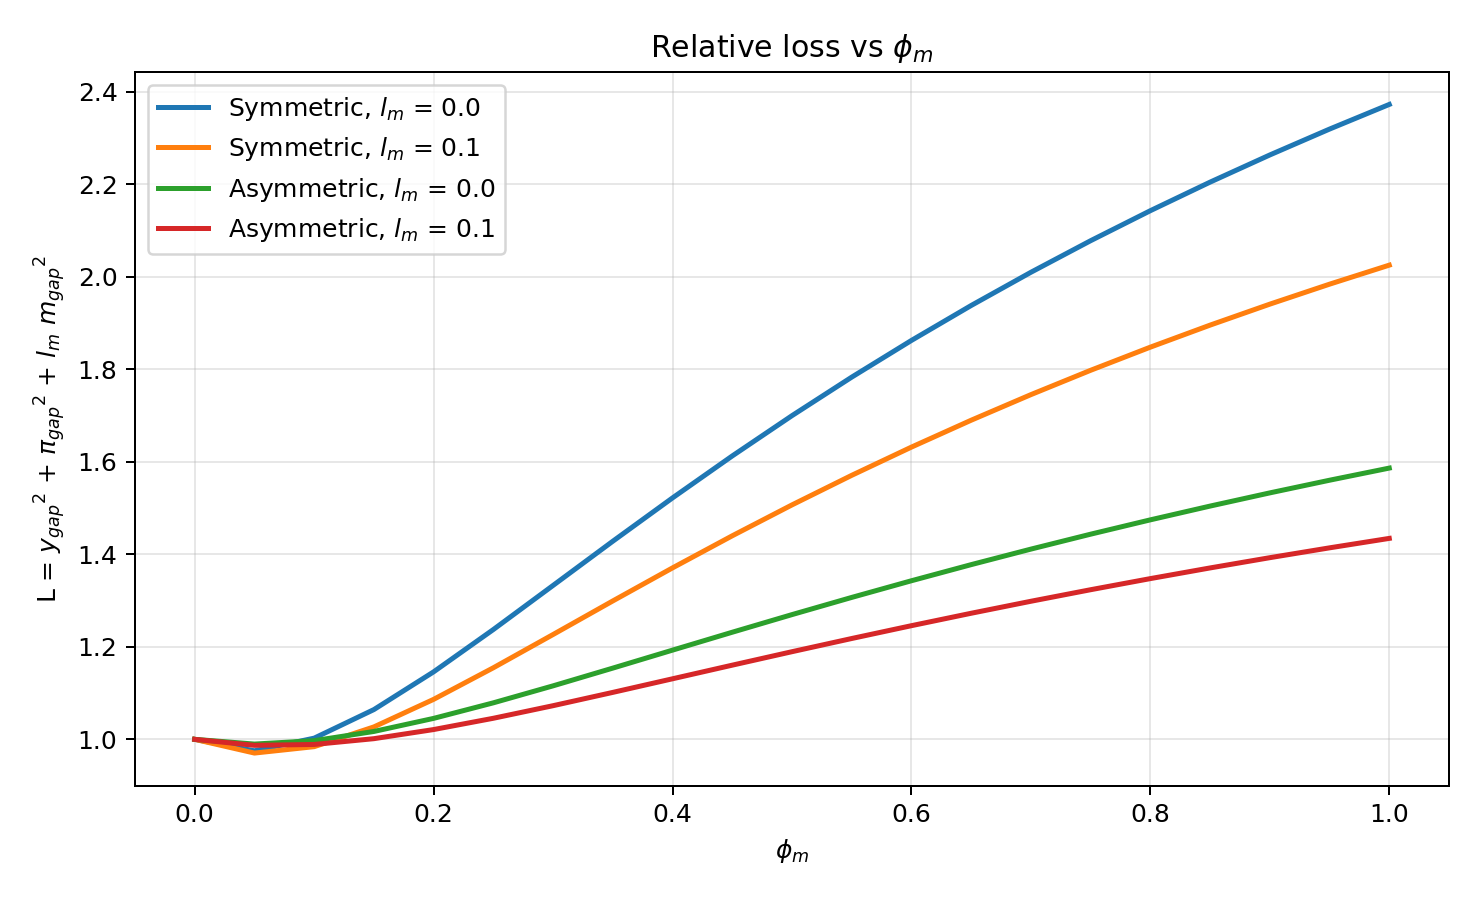
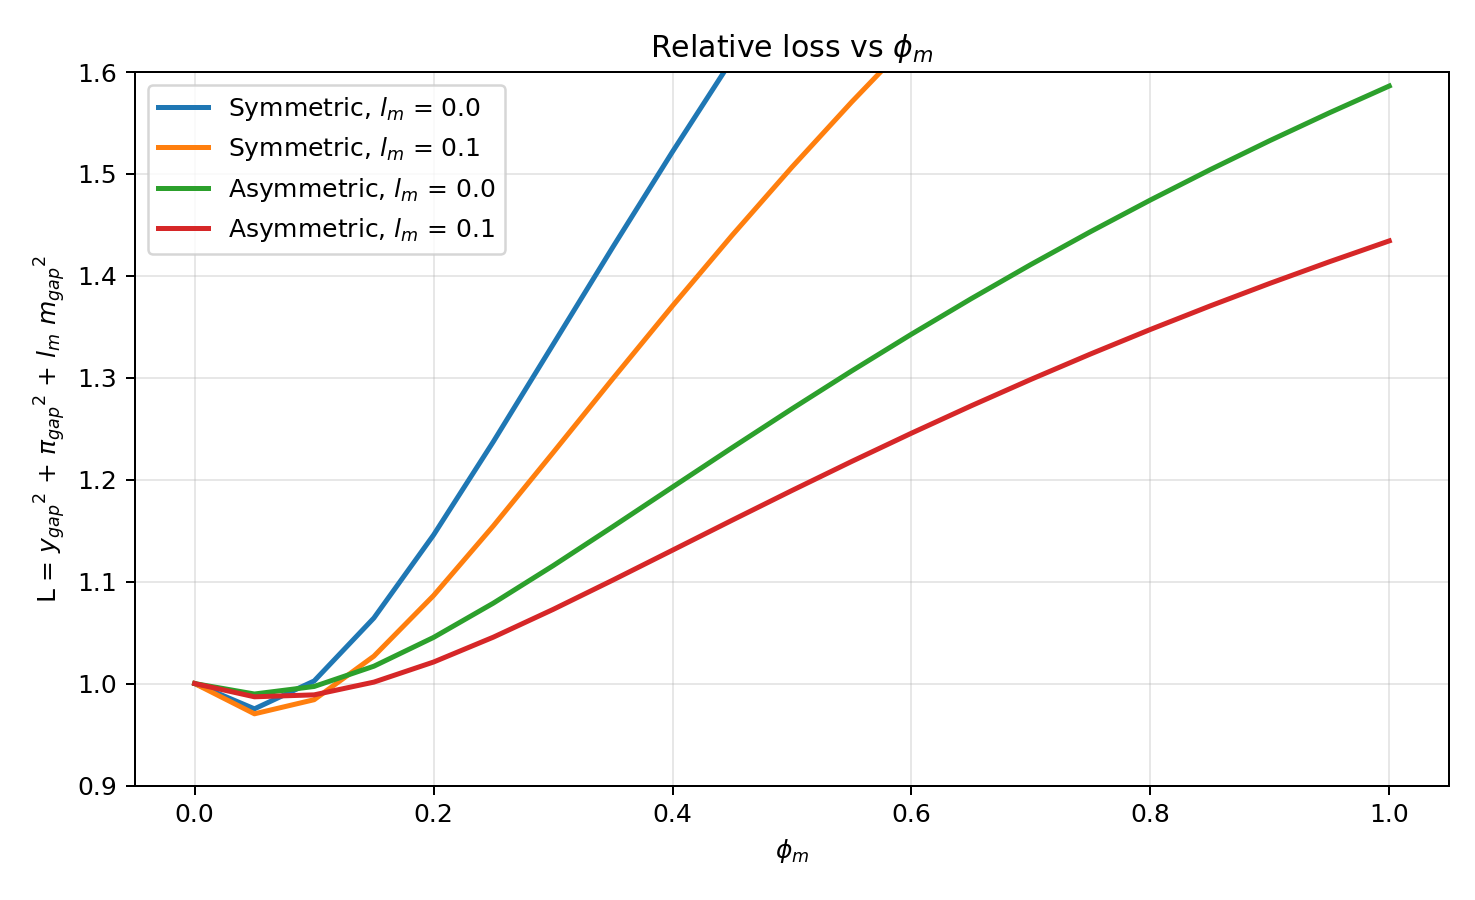
add no phi_y to loss

diff --git a/code/model_sims.py b/code/model_sims.py
@@ -426,6 +426,7 @@ cal = Calibration()
 cal.rho_u = 0.75
 
 sd_sym_bsl_rho_u, sd_asym_bsl_rho_u = sweep_stddevs_through_phi_m(phi_pi_baseline, phi_y_baseline, cal)
+sd_sym_simple_rho_u, sd_asym_simple_rho_u = sweep_stddevs_through_phi_m(phi_pi_baseline, phi_y_simple, cal)
 
 
 # %% Loss function numerical exploration
@@ -449,57 +450,68 @@ def save_loss_plot(x, y1, y2, y3, y4, xlabel, ylabel, title, path):
     plt.plot(x, y3, linewidth=2, label=r"Asymmetric, $l_m$ = 0.0")
     plt.plot(x, y4, linewidth=2, label=r"Asymmetric, $l_m$ = 0.1")
     plt.xlabel(xlabel); plt.ylabel(ylabel); plt.title(title)
+    plt.ylim(0.9, 1.6)
     plt.legend(); plt.grid(True, alpha=0.3); plt.tight_layout()
     plt.savefig(path, dpi=180); plt.close()
 
 
-def loss_function(sd_y, sd_pi, sd_m, l_y, l_pi, l_m):
-    loss_y = l_y*sd_y
-    loss_pi = l_pi*sd_pi
-    loss_m = l_m*sd_m
-    loss = loss_y + loss_pi + loss_m
-    try:  # if lists, normalize by first value
-        rel_loss = loss / loss[0]
-        return rel_loss
-    except Exception:
-        return loss
 
-l_y_bsl = 1
-l_pi_bsl = 1
-phi_m_grid
-phi_pi_baseline
-phi_y_baseline
+def sweep_loss_function(l_ms, sd_sym, sd_asym, l_y=1, l_pi=1):
+    
+    def loss_function(sd_y, sd_pi, sd_m, l_y, l_pi, l_m):
+        loss_y = l_y*sd_y
+        loss_pi = l_pi*sd_pi
+        loss_m = l_m*sd_m
+        loss = loss_y + loss_pi + loss_m
+        try:  # if lists, normalize by first value
+            rel_loss = loss / loss[0]
+            return rel_loss
+        except Exception:
+            return loss
+    
+    losses_dict = {}
+    for l_m in l_ms:
+        loss_sym_bsl = loss_function(
+            sd_sym['sd_y'],
+            sd_sym['sd_pi'],
+            sd_sym['sd_m'],
+            l_y, l_pi, l_m)
+        loss_asym_bsl = loss_function(
+            sd_asym['sd_y'],
+            sd_asym['sd_pi'],
+            sd_asym['sd_m'],
+            l_y, l_pi, l_m)
+        losses_dict[f'sym_lm_{l_m}'] = loss_sym_bsl
+        losses_dict[f'asym_lm_{l_m}'] = loss_asym_bsl
+    
+    return losses_dict
 
-loss_lm_no_mon = {}
-loss_lm_mon_pers = {}
+l_ms = [0, 0.1]
+loss_lm_no_mon = sweep_loss_function(
+    l_ms=l_ms,
+    sd_sym=sd_sym_baseline,
+    sd_asym=sd_asym_baseline
+    )
+# now rho_u
+loss_lm_mon_pers =  sweep_loss_function(
+    l_ms=l_ms,
+    sd_sym=sd_sym_bsl_rho_u,
+    sd_asym=sd_asym_bsl_rho_u
+    )
 
-for l_m in [0, 0.1]:
-    loss_sym_bsl = loss_function(
-        sd_sym_baseline['sd_y'],
-        sd_sym_baseline['sd_pi'],
-        sd_sym_baseline['sd_m'],
-        l_y_bsl, l_pi_bsl, l_m)
-    loss_asym_bsl = loss_function(
-        sd_asym_baseline['sd_y'],
-        sd_asym_baseline['sd_pi'],
-        sd_asym_baseline['sd_m'],
-        l_y_bsl, l_pi_bsl, l_m)
-    loss_lm_no_mon[f'sym_lm_{l_m}'] = loss_sym_bsl
-    loss_lm_no_mon[f'asym_lm_{l_m}'] = loss_asym_bsl
+# no reaction to GDP
+loss_lm_no_mon_no_gdp = sweep_loss_function(
+    l_ms=l_ms,
+    sd_sym=sd_sym_simple,
+    sd_asym=sd_asym_simple
+    )
 
-    # now rho_u
-    loss_sym_mon_pers = loss_function(
-        sd_sym_bsl_rho_u['sd_y'],
-        sd_sym_bsl_rho_u['sd_pi'],
-        sd_sym_bsl_rho_u['sd_m'],
-        l_y_bsl, l_pi_bsl, l_m)
-    loss_asym_bsl_mon_pers = loss_function(
-        sd_asym_bsl_rho_u['sd_y'],
-        sd_asym_bsl_rho_u['sd_pi'],
-        sd_asym_bsl_rho_u['sd_m'],
-        l_y_bsl, l_pi_bsl, l_m)
-    loss_lm_mon_pers[f'sym_lm_{l_m}'] = loss_sym_mon_pers
-    loss_lm_mon_pers[f'asym_lm_{l_m}'] = loss_asym_bsl_mon_pers
+# mon perss, no reaction to gdp
+loss_lm_mon_no_gdp = sweep_loss_function(
+    l_ms=l_ms,
+    sd_sym=sd_sym_simple_rho_u,
+    sd_asym=sd_asym_simple_rho_u
+    )
 
 # no monetary pers.
 save_loss_plot(x=phi_m_grid,
@@ -523,41 +535,27 @@ save_loss_plot(x=phi_m_grid,
                ylabel='L = ${y_{gap}}^2$ + ${\pi_{gap}}^2$ + $l_m$ ${m_{gap}}^2$',
                title="Relative loss vs $\phi_m$ under monetary shock persistence",
                path=OUT / "mon_pers.png")
-             
 
 
+# No reaction to GDP
+save_loss_plot(x=phi_m_grid,
+               y1=loss_lm_no_mon_no_gdp['sym_lm_0'],
+               y2=loss_lm_no_mon_no_gdp['sym_lm_0.1'],
+               y3=loss_lm_no_mon_no_gdp['asym_lm_0'],
+               y4=loss_lm_no_mon_no_gdp['asym_lm_0.1'],
+               xlabel=r"$\phi_m$",
+               ylabel='L = ${y_{gap}}^2$ + ${\pi_{gap}}^2$ + $l_m$ ${m_{gap}}^2$',
+               title="Relative loss vs $\phi_m$ under $\phi_y$=0",
+               path=OUT / "no_mon_pers_no_gdp.png")
 
-
-
-
-
-
-
-
-
-
-
-
-
-
-
-
-
-
-
-
-
-
-
-
-
-
-
-
-
-
-
-
-
-
+# No reaction to GDP, monetary persistence
+save_loss_plot(x=phi_m_grid,
+               y1=loss_lm_mon_no_gdp['sym_lm_0'],
+               y2=loss_lm_mon_no_gdp['sym_lm_0.1'],
+               y3=loss_lm_mon_no_gdp['asym_lm_0'],
+               y4=loss_lm_mon_no_gdp['asym_lm_0.1'],
+               xlabel=r"$\phi_m$",
+               ylabel='L = ${y_{gap}}^2$ + ${\pi_{gap}}^2$ + $l_m$ ${m_{gap}}^2$',
+               title="Relative loss vs $\phi_m$ under $\phi_y$=0 and monetary persistence",
+               path=OUT / "mon_pers_no_gdp.png")
 